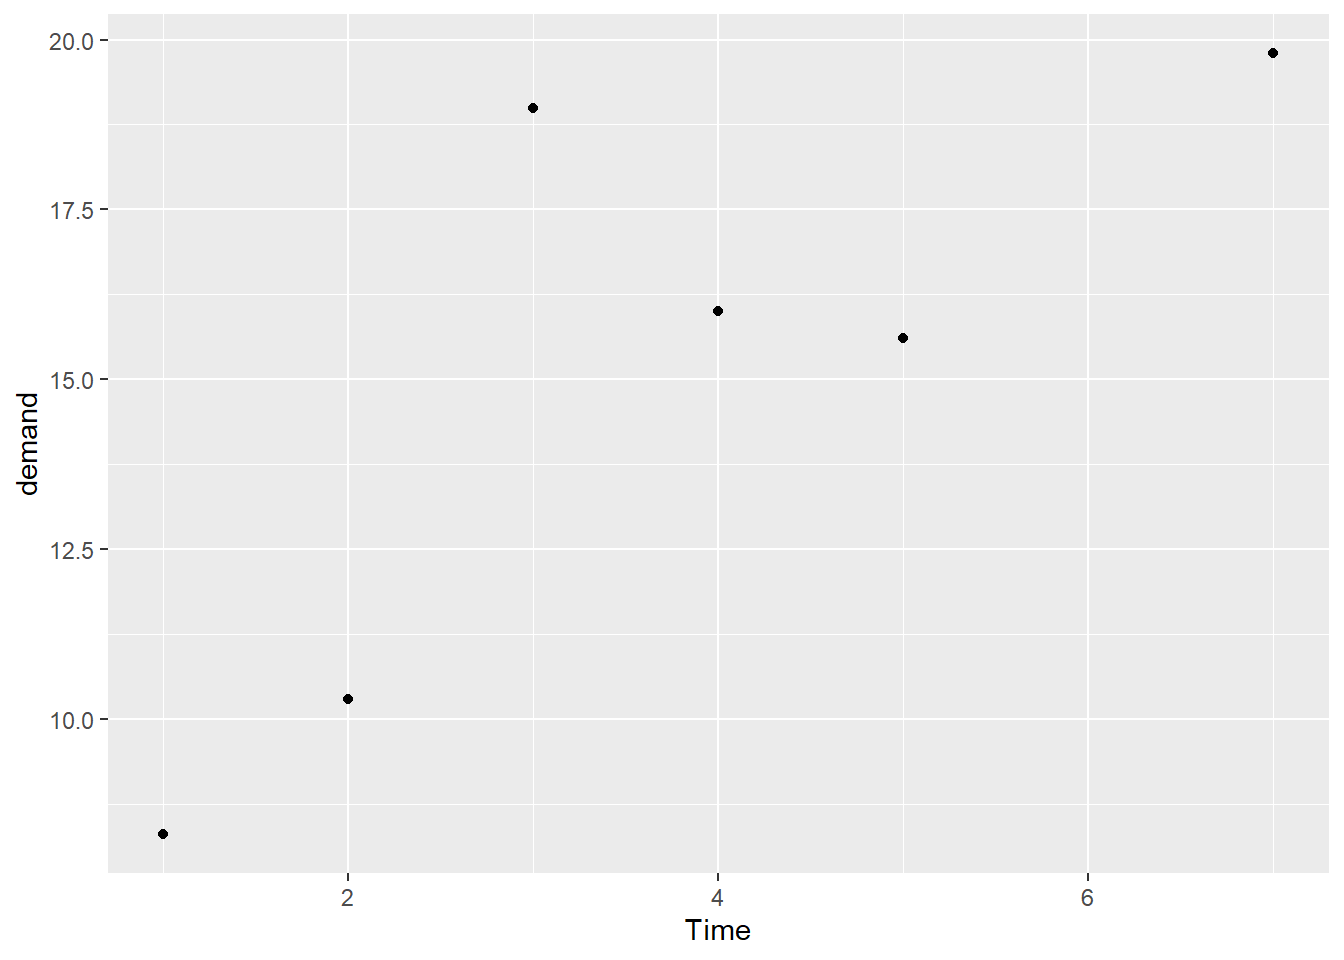
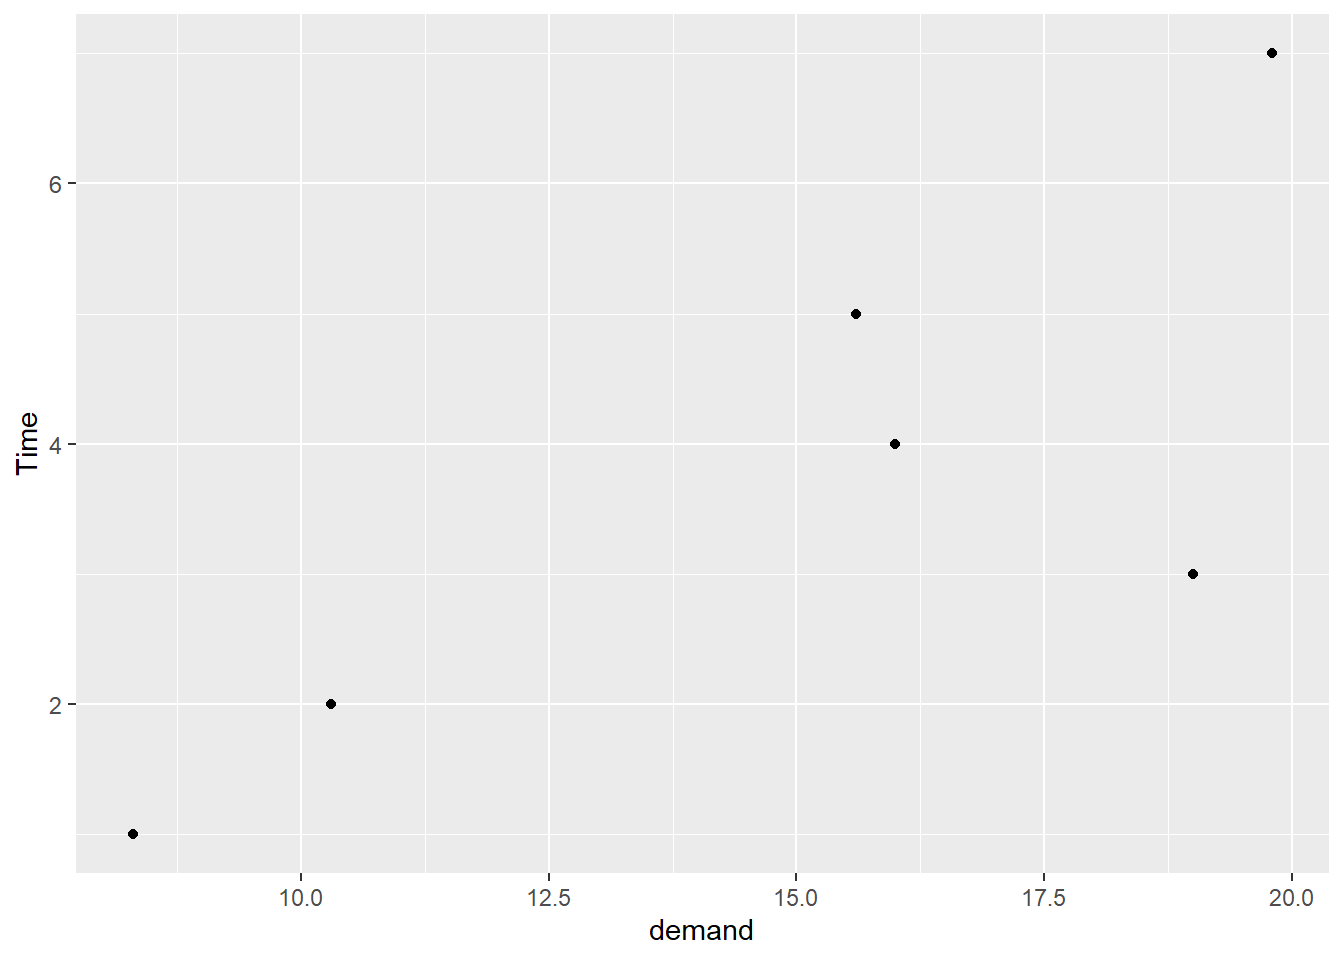
Built site for gh-pages

diff --git a/index.html b/index.html
@@ -178,7 +178,7 @@ pre > code.sourceCode > span > a:first-child::before { text-decoration: underlin
 <div class="sourceCode cell-code" id="cb3"><pre class="sourceCode r code-with-copy"><code class="sourceCode r"><span id="cb3-1"><a href="#cb3-1" aria-hidden="true" tabindex="-1"></a><span class="fu">library</span>(ggplot2)</span>
 <span id="cb3-2"><a href="#cb3-2" aria-hidden="true" tabindex="-1"></a></span>
 <span id="cb3-3"><a href="#cb3-3" aria-hidden="true" tabindex="-1"></a>BOD <span class="sc">|&gt;</span> </span>
-<span id="cb3-4"><a href="#cb3-4" aria-hidden="true" tabindex="-1"></a>  <span class="fu">ggplot</span>(<span class="at">mapping =</span> <span class="fu">aes</span>(<span class="at">x =</span> Time, <span class="at">y =</span> demand)) <span class="sc">+</span></span>
+<span id="cb3-4"><a href="#cb3-4" aria-hidden="true" tabindex="-1"></a>  <span class="fu">ggplot</span>(<span class="at">mapping =</span> <span class="fu">aes</span>(<span class="at">y =</span> Time, <span class="at">x =</span> demand)) <span class="sc">+</span></span>
 <span id="cb3-5"><a href="#cb3-5" aria-hidden="true" tabindex="-1"></a>  <span class="fu">geom_point</span>()</span></code><button title="Copy to Clipboard" class="code-copy-button"><i class="bi"></i></button></pre></div>
 <div class="cell-output-display">
 <div>
